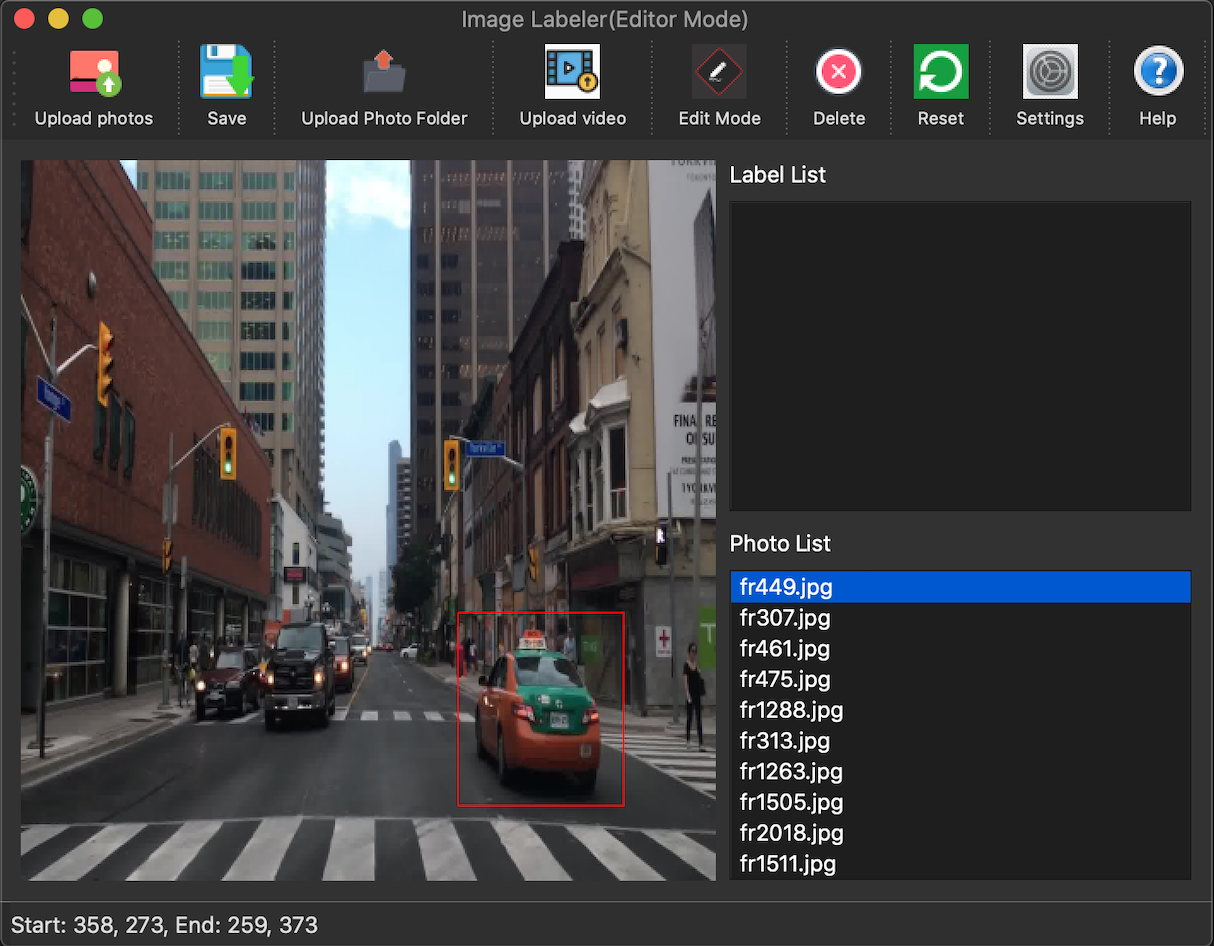
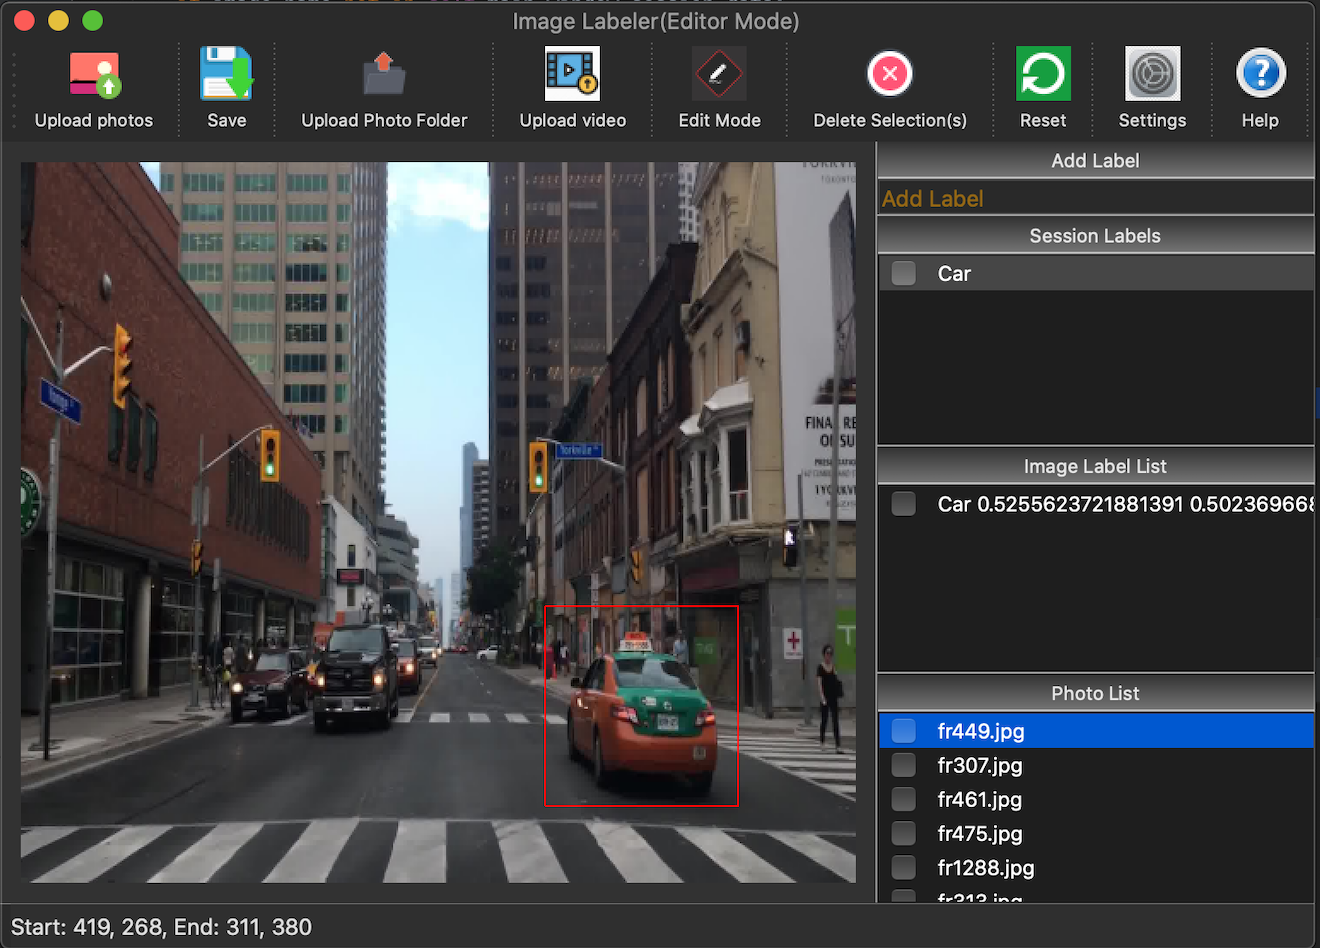
Updated preview image

diff --git a/labelpix/labelpix.py b/labelpix/labelpix.py
@@ -36,14 +36,15 @@ class RegularImageArea(QLabel):
         self.current_image = img
         self.repaint()
 
-    def ratios_to_coordinates(self, bx, by, bw, bh):
-        w, h = bw * self.width(), bh * self.height()
-        x, y = bx * self.width() + (w / 2), by * self.height() + (h / 2)
+    @staticmethod
+    def ratios_to_coordinates(bx, by, bw, bh, width, height):
+        w, h = bw * width, bh * height
+        x, y = bx * width + (w / 2), by * height + (h / 2)
         return x, y, w, h
 
     def draw_box(self, x, y, w, h):
         labeled = cv2.imread(self.current_image)
-        labeled = cv2.resize(labeled, (self.width(), self.height()))
+        # labeled = cv2.resize(labeled, (self.width(), self.height()))
         labeled = cv2.rectangle(labeled, (int(x), int(y)), (int(x + w), int(y + h)), (0, 0, 255), 1)
         return labeled
 
@@ -109,10 +110,12 @@ class ImageEditorArea(RegularImageArea):
         self.main_window.session_data[image_name].append(data)
         self.main_window.add_to_list(f'{object_name} {bx} {by} {bw} {bh}',
                                      self.main_window.right_widgets['Image Label List'])
-        xx, yy, ww, hh = self.ratios_to_coordinates(bx, by, bw, bh)
+        height, width = cv2.imread(self.current_image).shape[:-1]
+        xx, yy, ww, hh = self.ratios_to_coordinates(bx, by, bw, bh, width, height)
+        print(xx, yy, ww, hh)
         boxed = self.draw_box(xx, yy, ww, hh)
-        cv2.imshow('boxed', boxed)
-        cv2.waitKey(0)
+        # cv2.imshow('boxed', boxed)
+        # cv2.waitKey(0)
 
 
 class ImageLabelerBase(QMainWindow):
